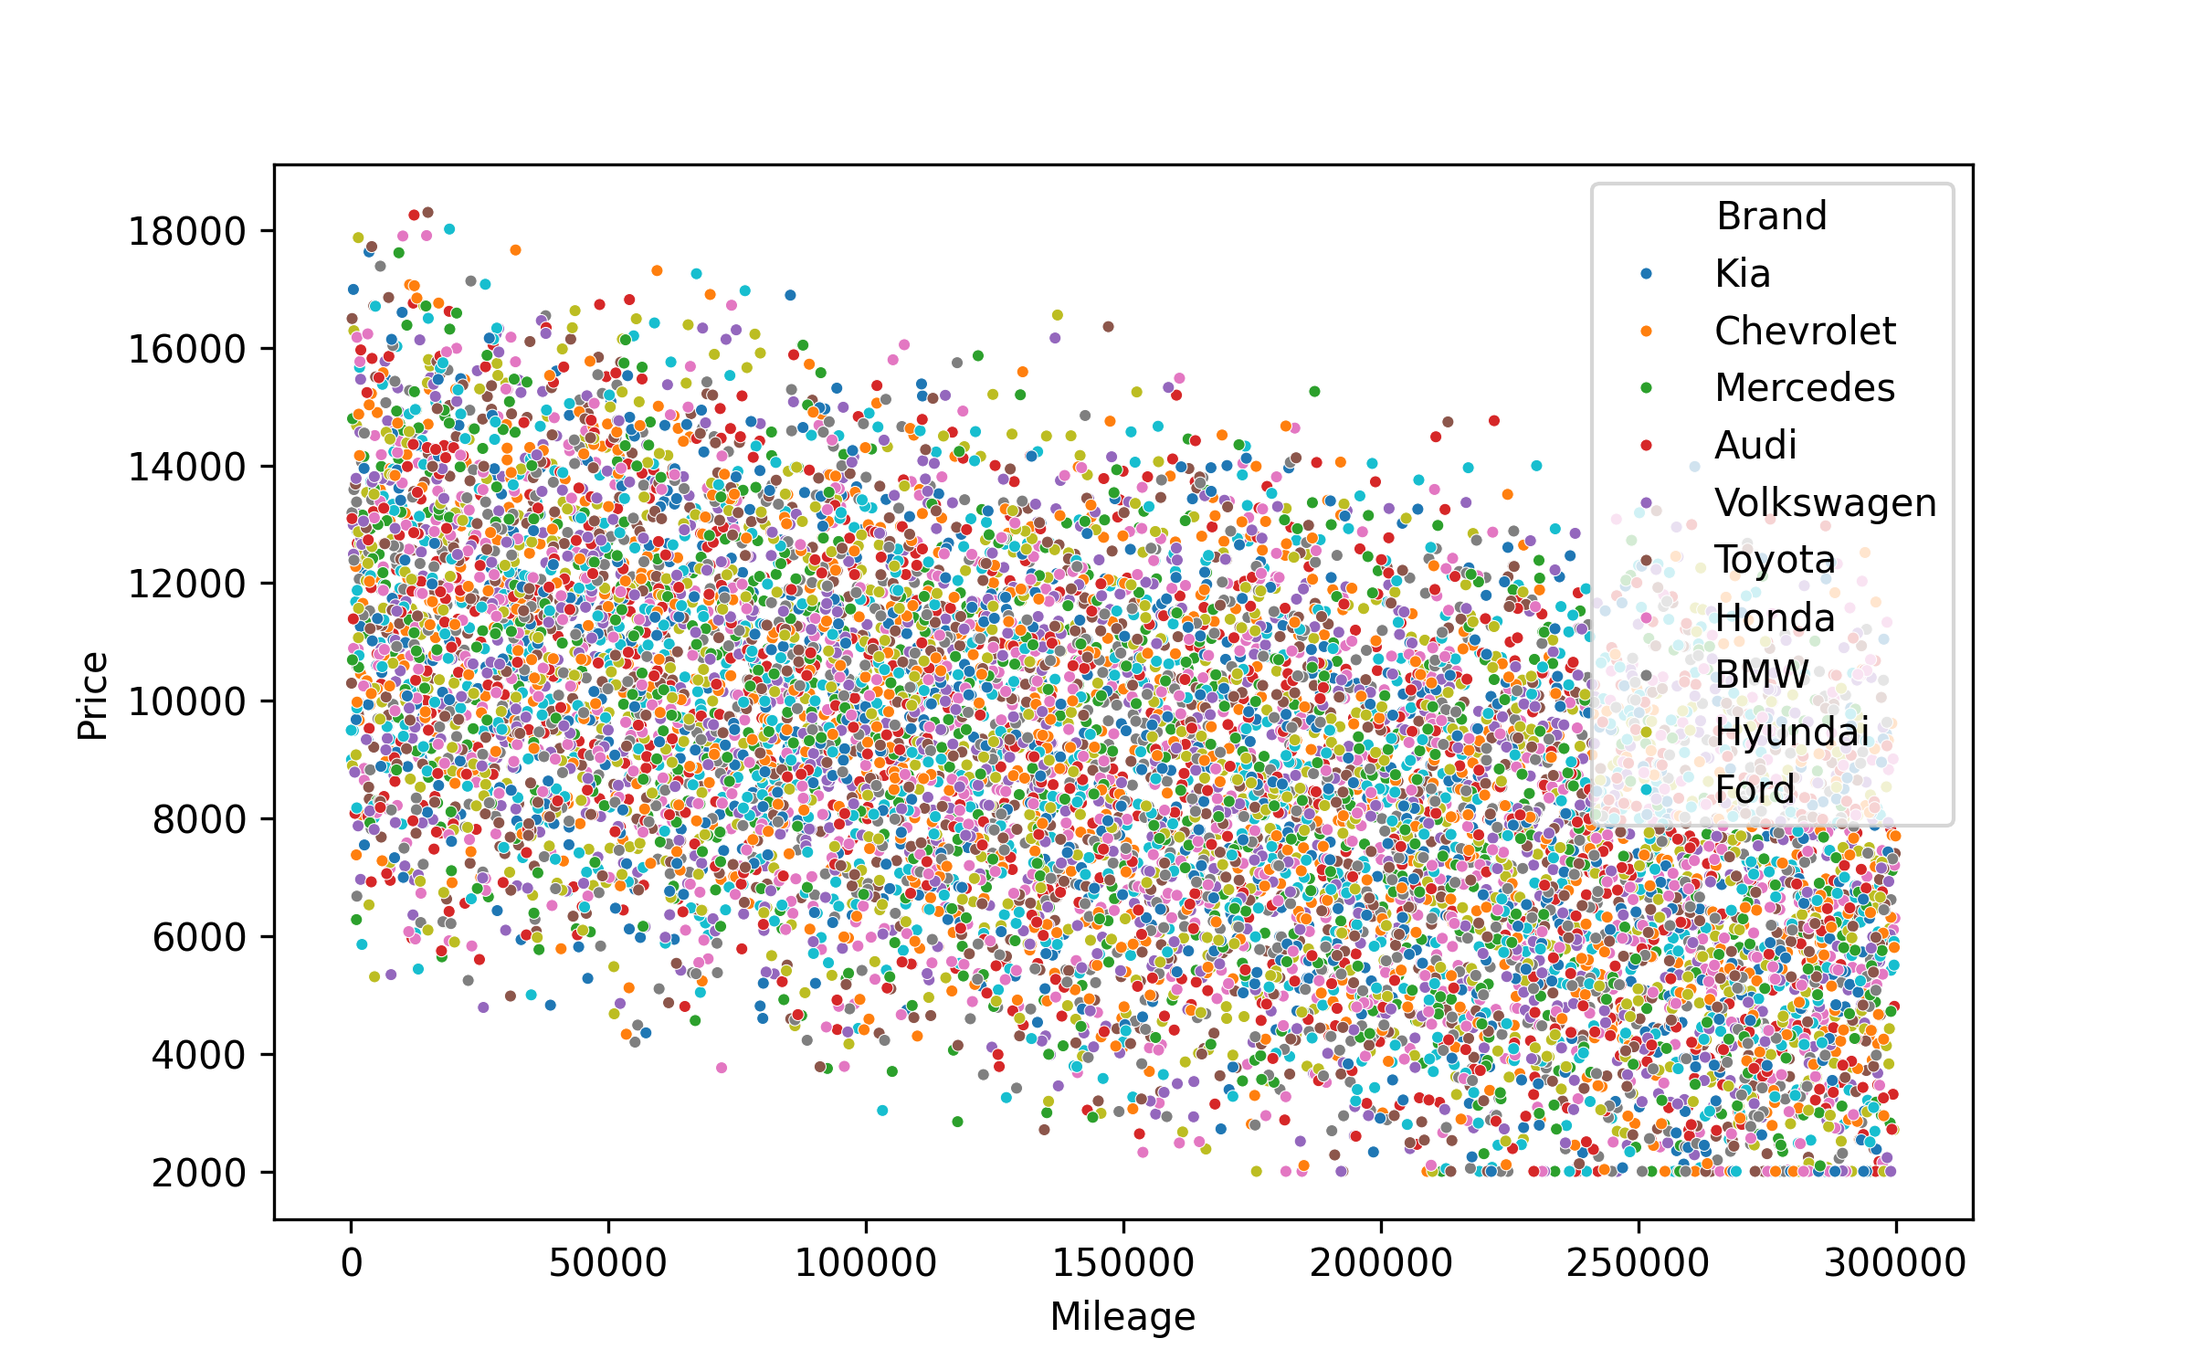
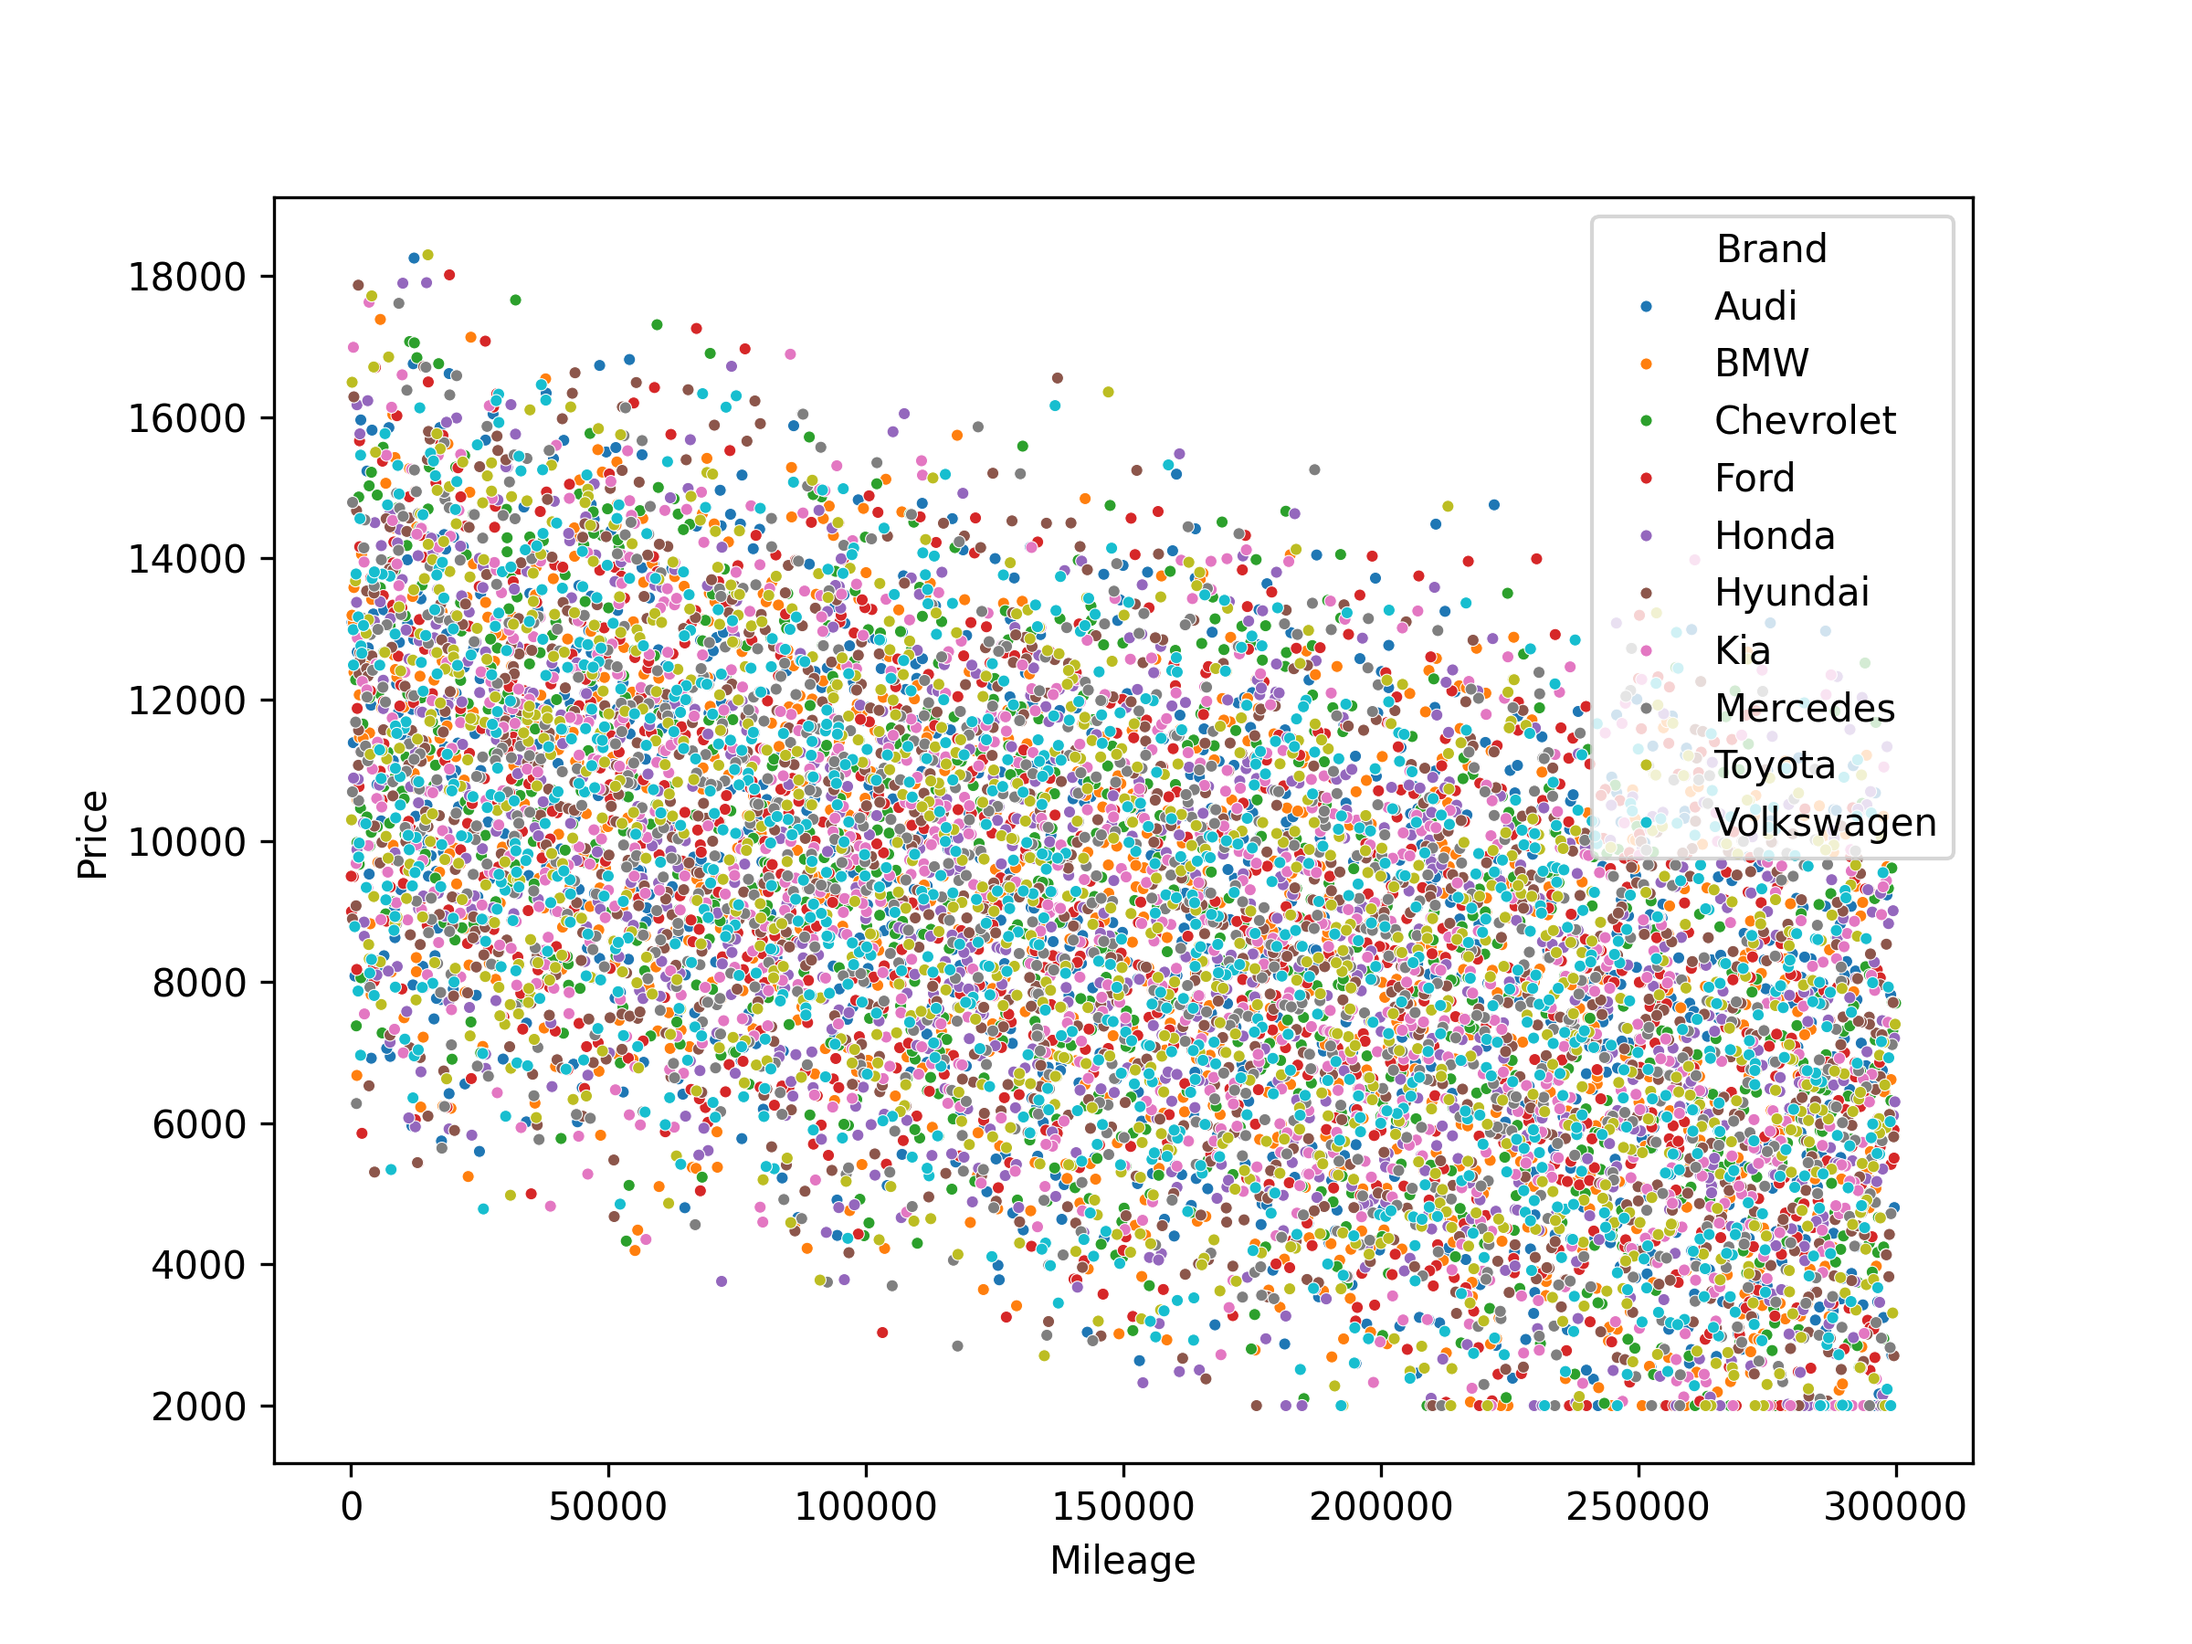
15-3-2025

diff --git a/viz.py b/viz.py
@@ -6,36 +6,12 @@ from pandas._libs.internals import BlockManager
 import polars as pl
 import seaborn as sns
 import pandas as pd
-
-
-def is_num(data):
-    return data.dtype.is_numeric()
+from sklearn.linear_model import LinearRegression
+from sklearn.ensemble import RandomForestRegressor
 
 
 data = pl.read_csv("car_price_dataset.csv")
-data[:250].write_csv("car_price_dataset_reduced.csv")
-df = pl.DataFrame()
-for i in data:
-    if i.dtype.is_numeric():
-        mean = i.mean()
-        var = i.var()
-        med = i.median()
-        covar = data.select(pl.cov(i, i)).item()
-        df = pl.concat(
-            [
-                df,
-                pl.DataFrame(
-                    {"Value": i.name, "Mean": mean, "Variance": var, "Median": med}
-                ),
-            ]
-        )
-        print(df)
-
-        # print(i.name, ": ", mean, var, covar)
-df.write_csv("df.csv")
-# print(data["Fuel_Type"].value_counts(), data.columns)
-# print(data["Mileage"].sort(descending=True))
-print(data.select(pl.cov(data["Price"], data["Mileage"])))
+data.describe().write_json("data.json")
 
 
 def mean_prices(data, x):
@@ -50,26 +26,12 @@ def variance_prices(data, x):
     print(data.group_by(x).agg(pl.col("Price").std()).sort("Price"))
 
 
-# mean_mileage(data, "Year")
-mean_prices(data, "Fuel_Type")
-# mean_prices(data.sort("Year"), "Year")
-# mean_prices(data, "Brand")
-# variance_prices(data, "Fuel_Type")
-# variance_prices(data.sort("Year"), "Year")
-# variance_prices(data, "Brand")
-
-
 def avg_price_increase(data: pl.DataFrame):
     data = data.group_by("Year").agg(pl.col("Price").mean()).sort("Year")
     arr = []
     for i in range(1, len(data)):
         diff = data["Price"][i] - data["Price"][i - 1]
         arr.append(diff)
-    print(data)
-    print(np.array(arr).mean())
-
-
-avg_price_increase(data)
 
 
 def plot_heatmap(data: pl.DataFrame, name):
@@ -108,7 +70,7 @@ def plot_boxplot(data: pl.DataFrame, x, y, labelsize=10):
     fig, ax = plt.subplots(figsize=(8, 5), dpi=300)
     sns.violinplot(x=x, y=y, data=data, order=sorted_order, hue=x, ax=ax)
     ax.tick_params(labelsize=labelsize)
-    fig.savefig(f"boxplot {x}.png")
+    fig.savefig(f"{x} boxplot.png")
 
 
 def plot_bar(data, x, y, name):
@@ -119,10 +81,23 @@ def plot_bar(data, x, y, name):
     fig.savefig(f"{name}.png")
 
 
-def plot_scatterplot(data, x, y, hue, name):
-    fig, ax = plt.subplots(figsize=(8, 5), dpi=300)
-    sns.scatterplot(x=x, y=y, hue=hue, data=data, s=10, ax=ax)
+def plot_scatterplot(data: pl.DataFrame, x, y, hue, name):
+    fig, ax = plt.subplots(figsize=(8, 6), dpi=300)
+    sns.scatterplot(x=x, y=y, hue=hue, data=data.sort(hue), s=10, ax=ax)
     fig.savefig(f"{name}.png")
+
+
+def plot_lines(data: pl.DataFrame, x, y, hue):
+    fig, ax = plt.subplots(figsize=(8, 6), dpi=300)
+    for i in data[hue].unique().sort():
+        df = data.filter(pl.col(hue) == i)
+        xline = df[x].to_numpy().astype(float)
+        yline = df[y].to_numpy().astype(float)
+        a, b = np.polyfit(xline, yline, 1)
+        print(a, b, i)
+        ax.plot(xline, xline * a + b)
+    ax.legend(data[hue].unique().sort())
+    fig.savefig("lines.png")
 
 
 def plot_distplot(data, x, hue, name):
@@ -138,34 +113,34 @@ def plot_kdeplot(data, x, hue, name):
 
 
 def plot_stacked(data: pl.DataFrame, x, y, z, name):
-    # data["Price"] = data.select(pl.col("Price"))
     fig, ax = plt.subplots(figsize=(8, 5), dpi=300)
     sns.lineplot(data, x=x, y=y, hue=z)
     fig.savefig(f"{name}")
 
 
-# plot_stacked(data, "Mileage", "Price", "Fuel_Type", "line.png")
+plot_stacked(data, "Mileage", "Price", "Fuel_Type", "line.png")
 plot_heatmap(data, "heatmap")
 plot_covar(data)
-# plot_bar(
-#     data.group_by("Fuel_Type").agg(pl.col("Price").mean()).sort("Fuel_Type"),
-#     "Fuel_Type",
-#     "Price",
-#     "price_hist",
-# )
-# plot_bar(
-#     data.group_by("Year").agg(pl.col("Price").mean()).sort("Year"),
-#     "Year",
-#     "Price",
-#     "year_bar",
-# )
-# plot_distplot(data, "Price", "Fuel_Type", "displot")
-# plot_kdeplot(data, "Price", "Fuel_Type", "kdeplot")
-# plot_scatterplot(data, "Mileage", "Price", "Fuel_Type", "Fuel Type")
-# plot_scatterplot(data, "Mileage", "Price", "Year", "Year")
-# plot_scatterplot(data, "Mileage", "Price", "Brand", "Brand")
-# plot_boxplot(data, "Brand", "Price", "small")
-# plot_boxplot(data, "Fuel_Type", "Price")
-# plot_boxplot(data, "Owner_Count", "Price")
-# plot_boxplot(data, "Engine_Size", "Price", 6)
-# plot_boxplot(data, "Doors", "Price")
+plot_bar(
+    data.group_by("Fuel_Type").agg(pl.col("Price").mean()).sort("Fuel_Type"),
+    "Fuel_Type",
+    "Price",
+    "price_hist",
+)
+plot_bar(
+    data.group_by("Year").agg(pl.col("Price").mean()).sort("Year"),
+    "Year",
+    "Price",
+    "year_bar",
+)
+plot_distplot(data, "Price", "Fuel_Type", "displot")
+plot_kdeplot(data, "Price", "Fuel_Type", "kdeplot")
+plot_scatterplot(data, "Mileage", "Price", "Fuel_Type", "Fuel Type")
+plot_lines(data, "Mileage", "Price", "Fuel_Type")
+plot_scatterplot(data, "Mileage", "Price", "Year", "Year")
+plot_scatterplot(data, "Mileage", "Price", "Brand", "Brand")
+plot_boxplot(data, "Brand", "Price", "small")
+plot_boxplot(data, "Fuel_Type", "Price")
+plot_boxplot(data, "Owner_Count", "Price")
+plot_boxplot(data, "Engine_Size", "Price", 6)
+plot_boxplot(data, "Doors", "Price")
